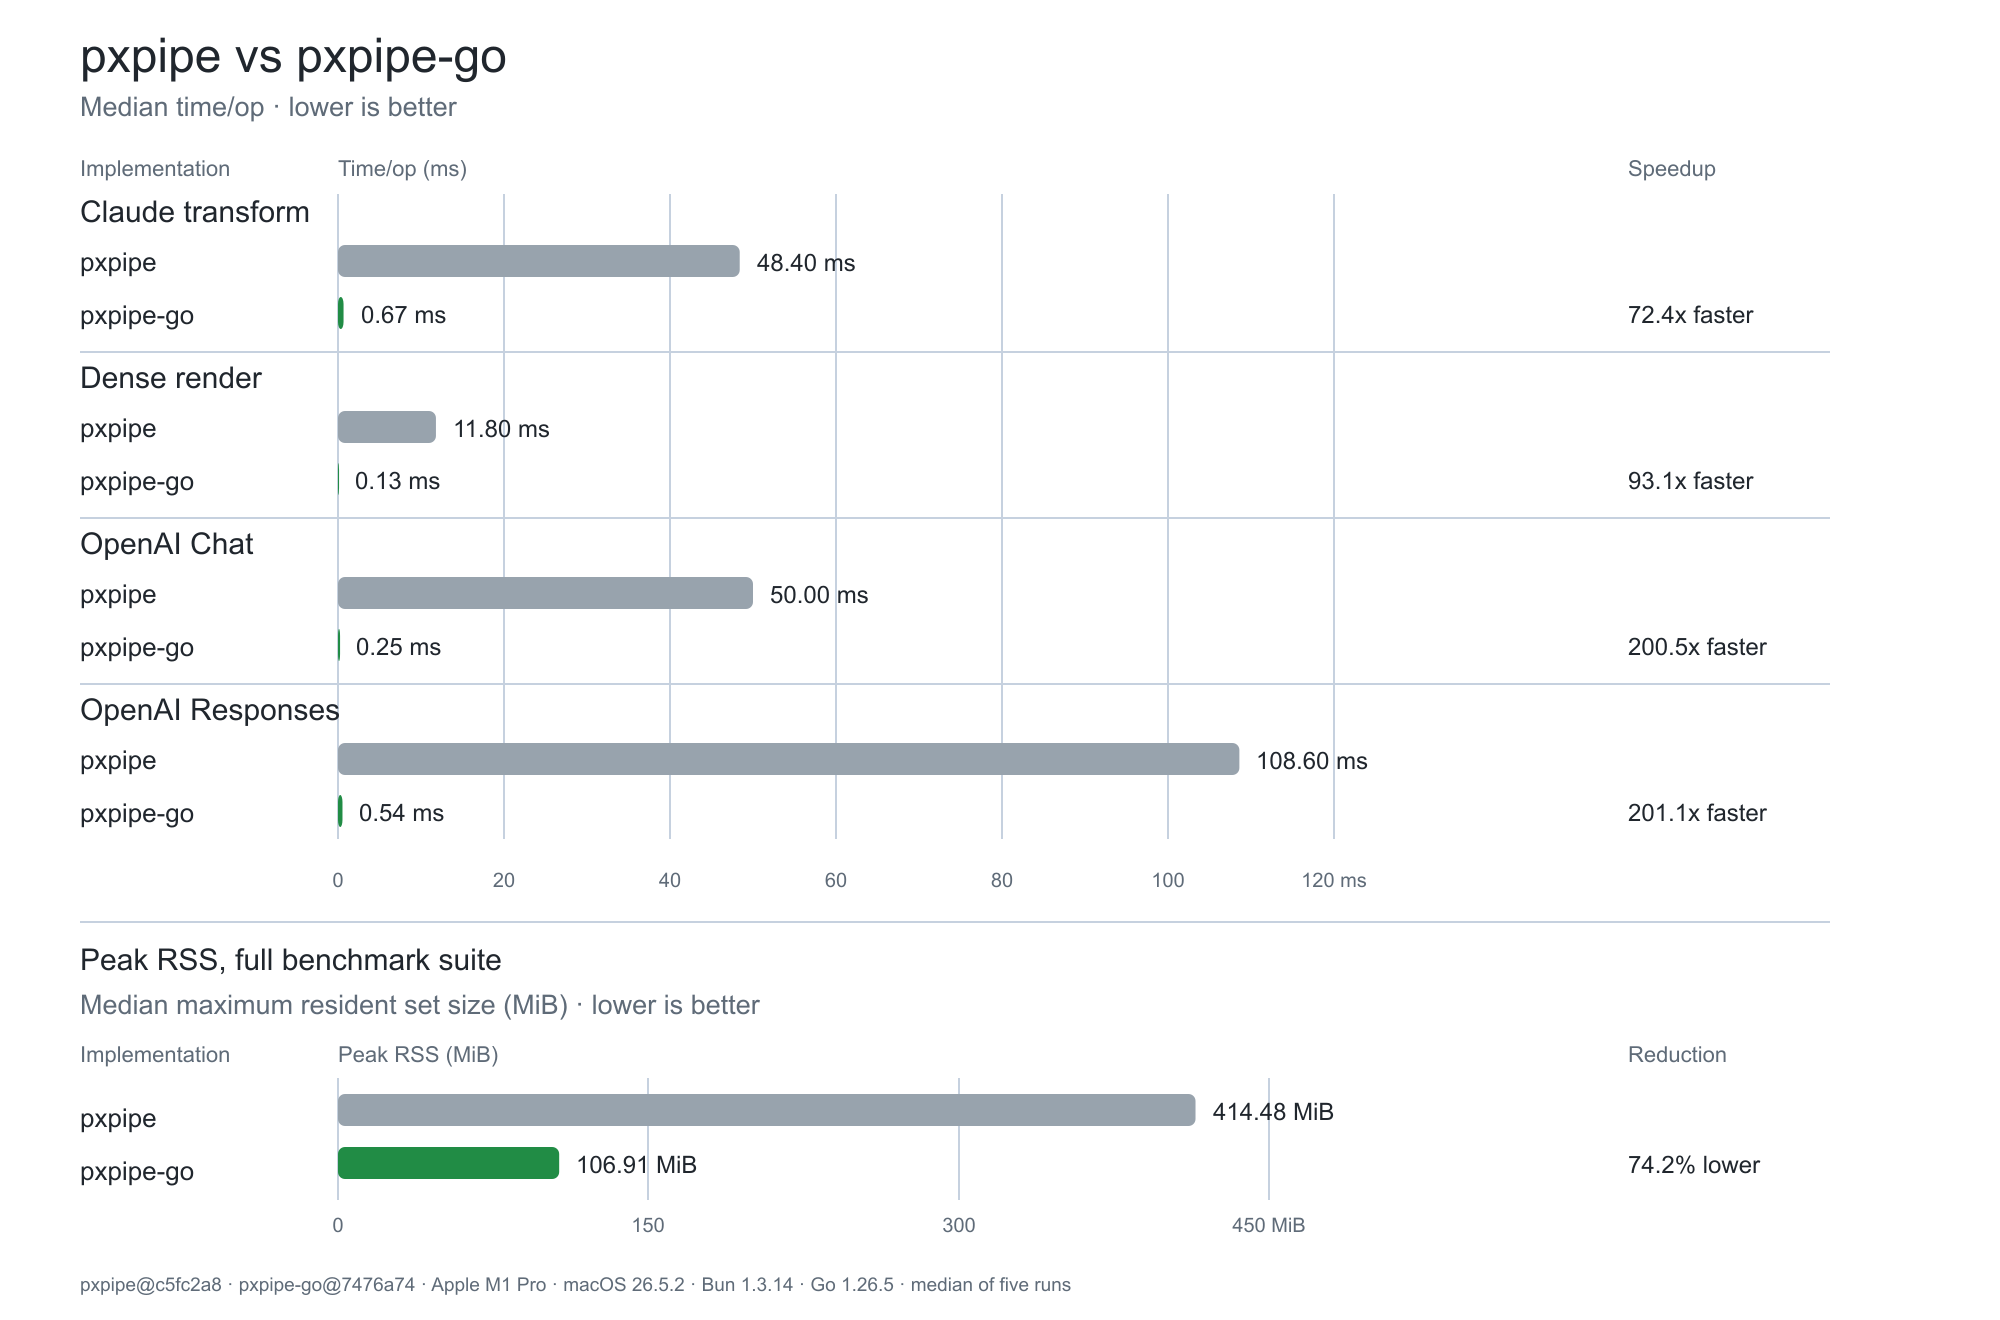
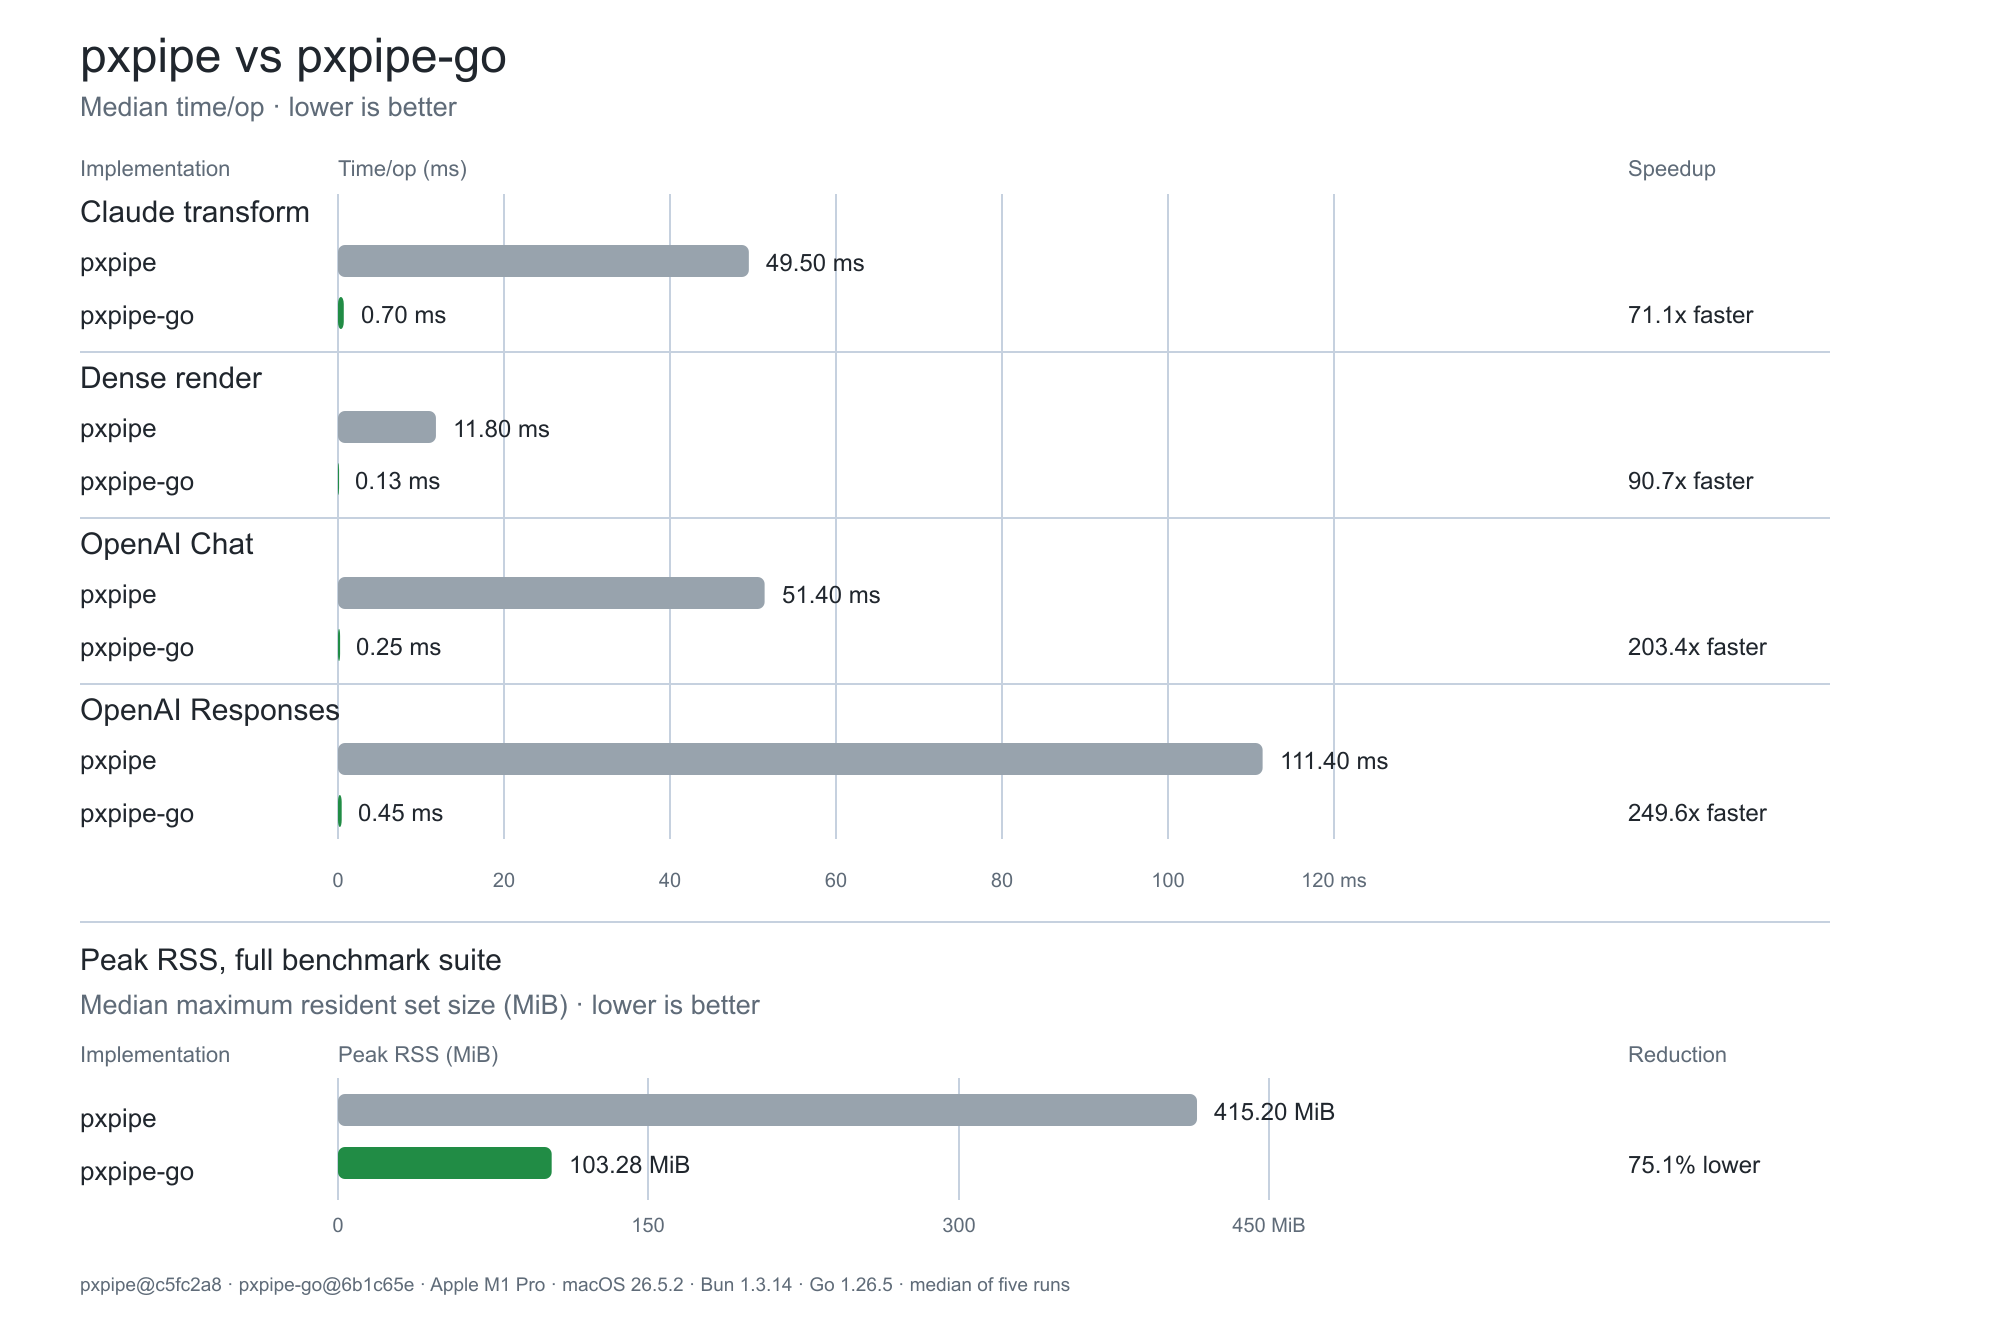
docs: update performance measurements

diff --git a/README.md b/README.md
@@ -329,11 +329,11 @@ Rendered pages are cached by exact render inputs. The cache retains up to
 64 MiB by default. Set `PXPIPE_RENDER_CACHE_BYTES` to another byte limit, or
 set it to `0` to disable the cache.
 
-![pxpipe versus pxpipe-go benchmark: pxpipe-go is 72.4 to 201.1 times faster across four workloads and uses 74.2% less peak RSS](docs/benchmark-improvements.png)
+![pxpipe versus pxpipe-go benchmark: pxpipe-go is 71.1 to 249.6 times faster across four workloads and uses 75.1% less peak RSS](docs/benchmark-improvements.png)
 
 Measured natively on an Apple M1 Pro running macOS 26.5.2, with Bun 1.3.14
 and Go 1.26.5. Go used the machine-default `GOMAXPROCS=10` and no PGO profile.
-The comparison uses `pxpipe@c5fc2a8` and `pxpipe-go@7476a74`
+The comparison uses `pxpipe@c5fc2a8` and `pxpipe-go@6b1c65e`
 (2026-08-11).
 
 Values are medians of five runs. Each pxpipe run performs two warmups and
@@ -343,27 +343,27 @@ CPU architecture, available cores, and request content.
 
 | benchmark | pxpipe time/op | pxpipe-go time/op | speedup |
 |---|---:|---:|---:|
-| TransformBigClaudeCode | 48.40 ms | 0.67 ms | 72.4× |
-| RenderDensePage | 11.80 ms | 0.13 ms | 93.1× |
-| TransformOpenAIChat | 50.00 ms | 0.25 ms | 200.5× |
-| TransformOpenAIResponses | 108.60 ms | 0.54 ms | 201.1× |
+| TransformBigClaudeCode | 49.50 ms | 0.70 ms | 71.1× |
+| RenderDensePage | 11.80 ms | 0.13 ms | 90.7× |
+| TransformOpenAIChat | 51.40 ms | 0.25 ms | 203.4× |
+| TransformOpenAIResponses | 111.40 ms | 0.45 ms | 249.6× |
 
 Peak RSS was measured over the full four-benchmark suite in a fresh process
 for each run:
 
 | implementation | median peak RSS | relative to pxpipe |
 |---|---:|---:|
-| pxpipe | 414.48 MiB | baseline |
-| pxpipe-go | 106.91 MiB | 74.2% lower |
+| pxpipe | 415.20 MiB | baseline |
+| pxpipe-go | 103.28 MiB | 75.1% lower |
 
 Go's `-benchmem` output reports the following allocation volume per operation:
 
 | benchmark | B/op | allocs/op |
 |---|---:|---:|
-| TransformBigClaudeCode | 1,165,578 | 1,813 |
+| TransformBigClaudeCode | 1,165,528 | 1,813 |
 | RenderDensePage | 2,736 | 25 |
 | TransformOpenAIChat | 633,320 | 993 |
-| TransformOpenAIResponses | 1,069,497 | 1,043 |
+| TransformOpenAIResponses | 1,069,496 | 1,043 |
 
 Raw GC counts are not compared because V8 and Go use different collectors and
 event semantics. Peak RSS is the cross-runtime memory metric; `B/op` and
@@ -403,9 +403,10 @@ done
 ```
 
 Current macOS hot-cache profiles put the cache-prefix hit path at 0.6% of CPU;
-mutex contention remains negligible. On high-cardinality Responses,
-level-6 PNG compression accounts for 73.5% of CPU and o200k counting for 8.0%.
-Framebuffers and encoders are pooled.
+mutex contention remains negligible. The high-cardinality Responses profile
+fell from 12.04 ms/op on main to 7.37 ms/op; level-6 PNG compression accounts
+for 57.9% of CPU and uncached o200k counting for 8.3%. Framebuffers and encoders
+are pooled.
 
 A Docker Desktop Alpine ARM64 A/B run found `GOGC=400` with
 `GOMEMLIMIT=192MiB` 5.6% faster by parallel geomean than the default GC
